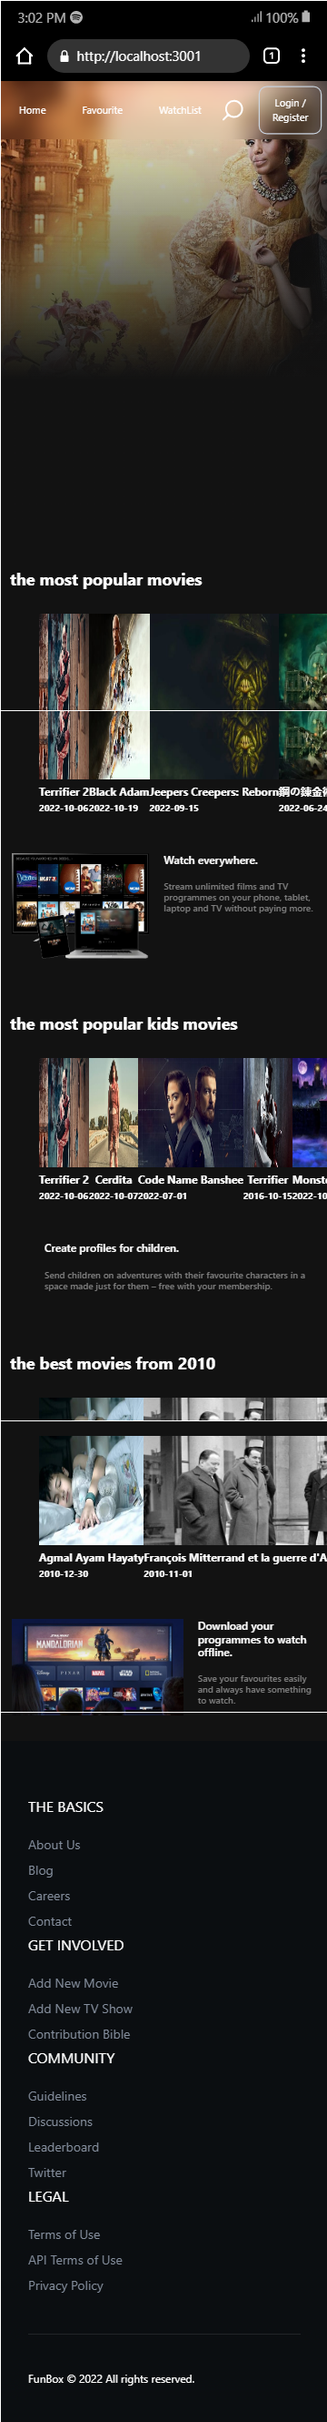
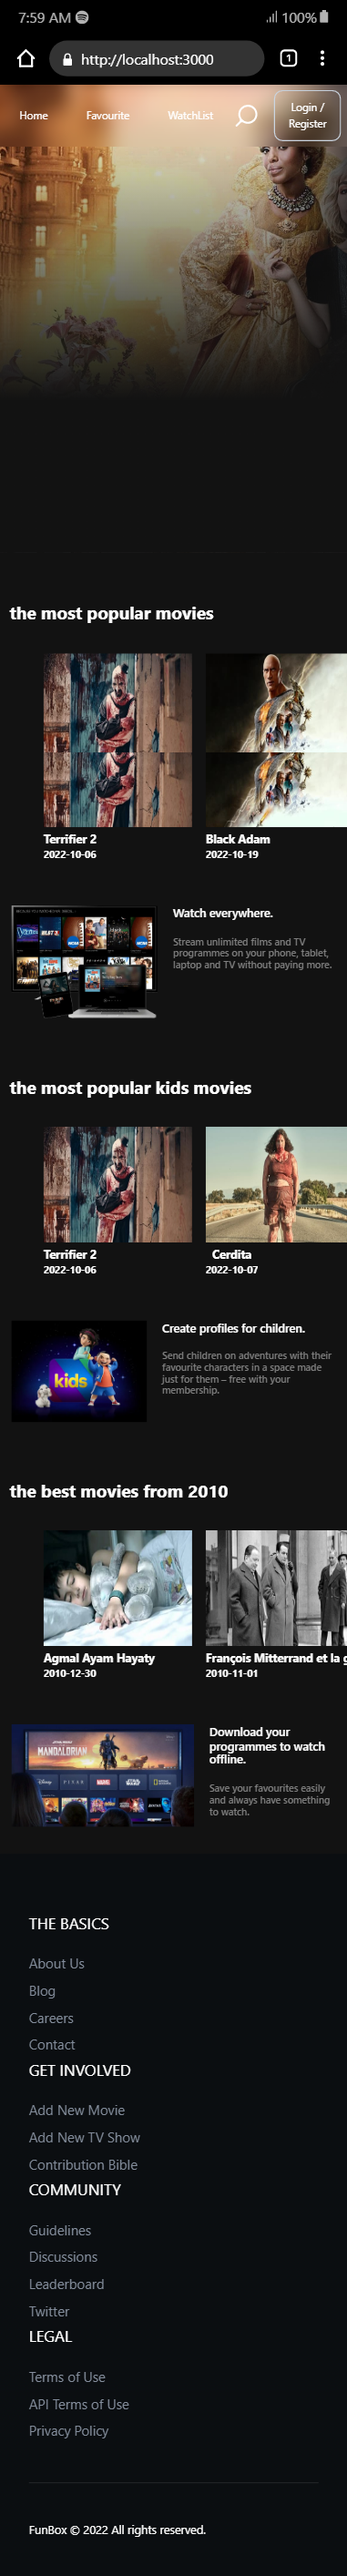
change style

diff --git a/src/components/popular/style/Popular.scss b/src/components/popular/style/Popular.scss
@@ -6,6 +6,8 @@
 }
 
 .item-movie {
+  overflow: hidden;
+
   img {
     max-width: 100%;
     max-height: 120px;
@@ -45,6 +47,23 @@
     overflow-x: scroll !important;
     white-space: nowrap;
     padding: 2px 2px 2px 10px;
+  }
+
+  .item-movie {
+    margin-right: 0.5rem;
+    font-size: 8px;
+    padding: 0.2rem;
+    width: 10rem;
+    overflow: hidden;
+
+    span,
+    p {
+      overflow: hidden;
+    }
+
+    img {
+      width: 100%;
+    }
   }
 }
 
